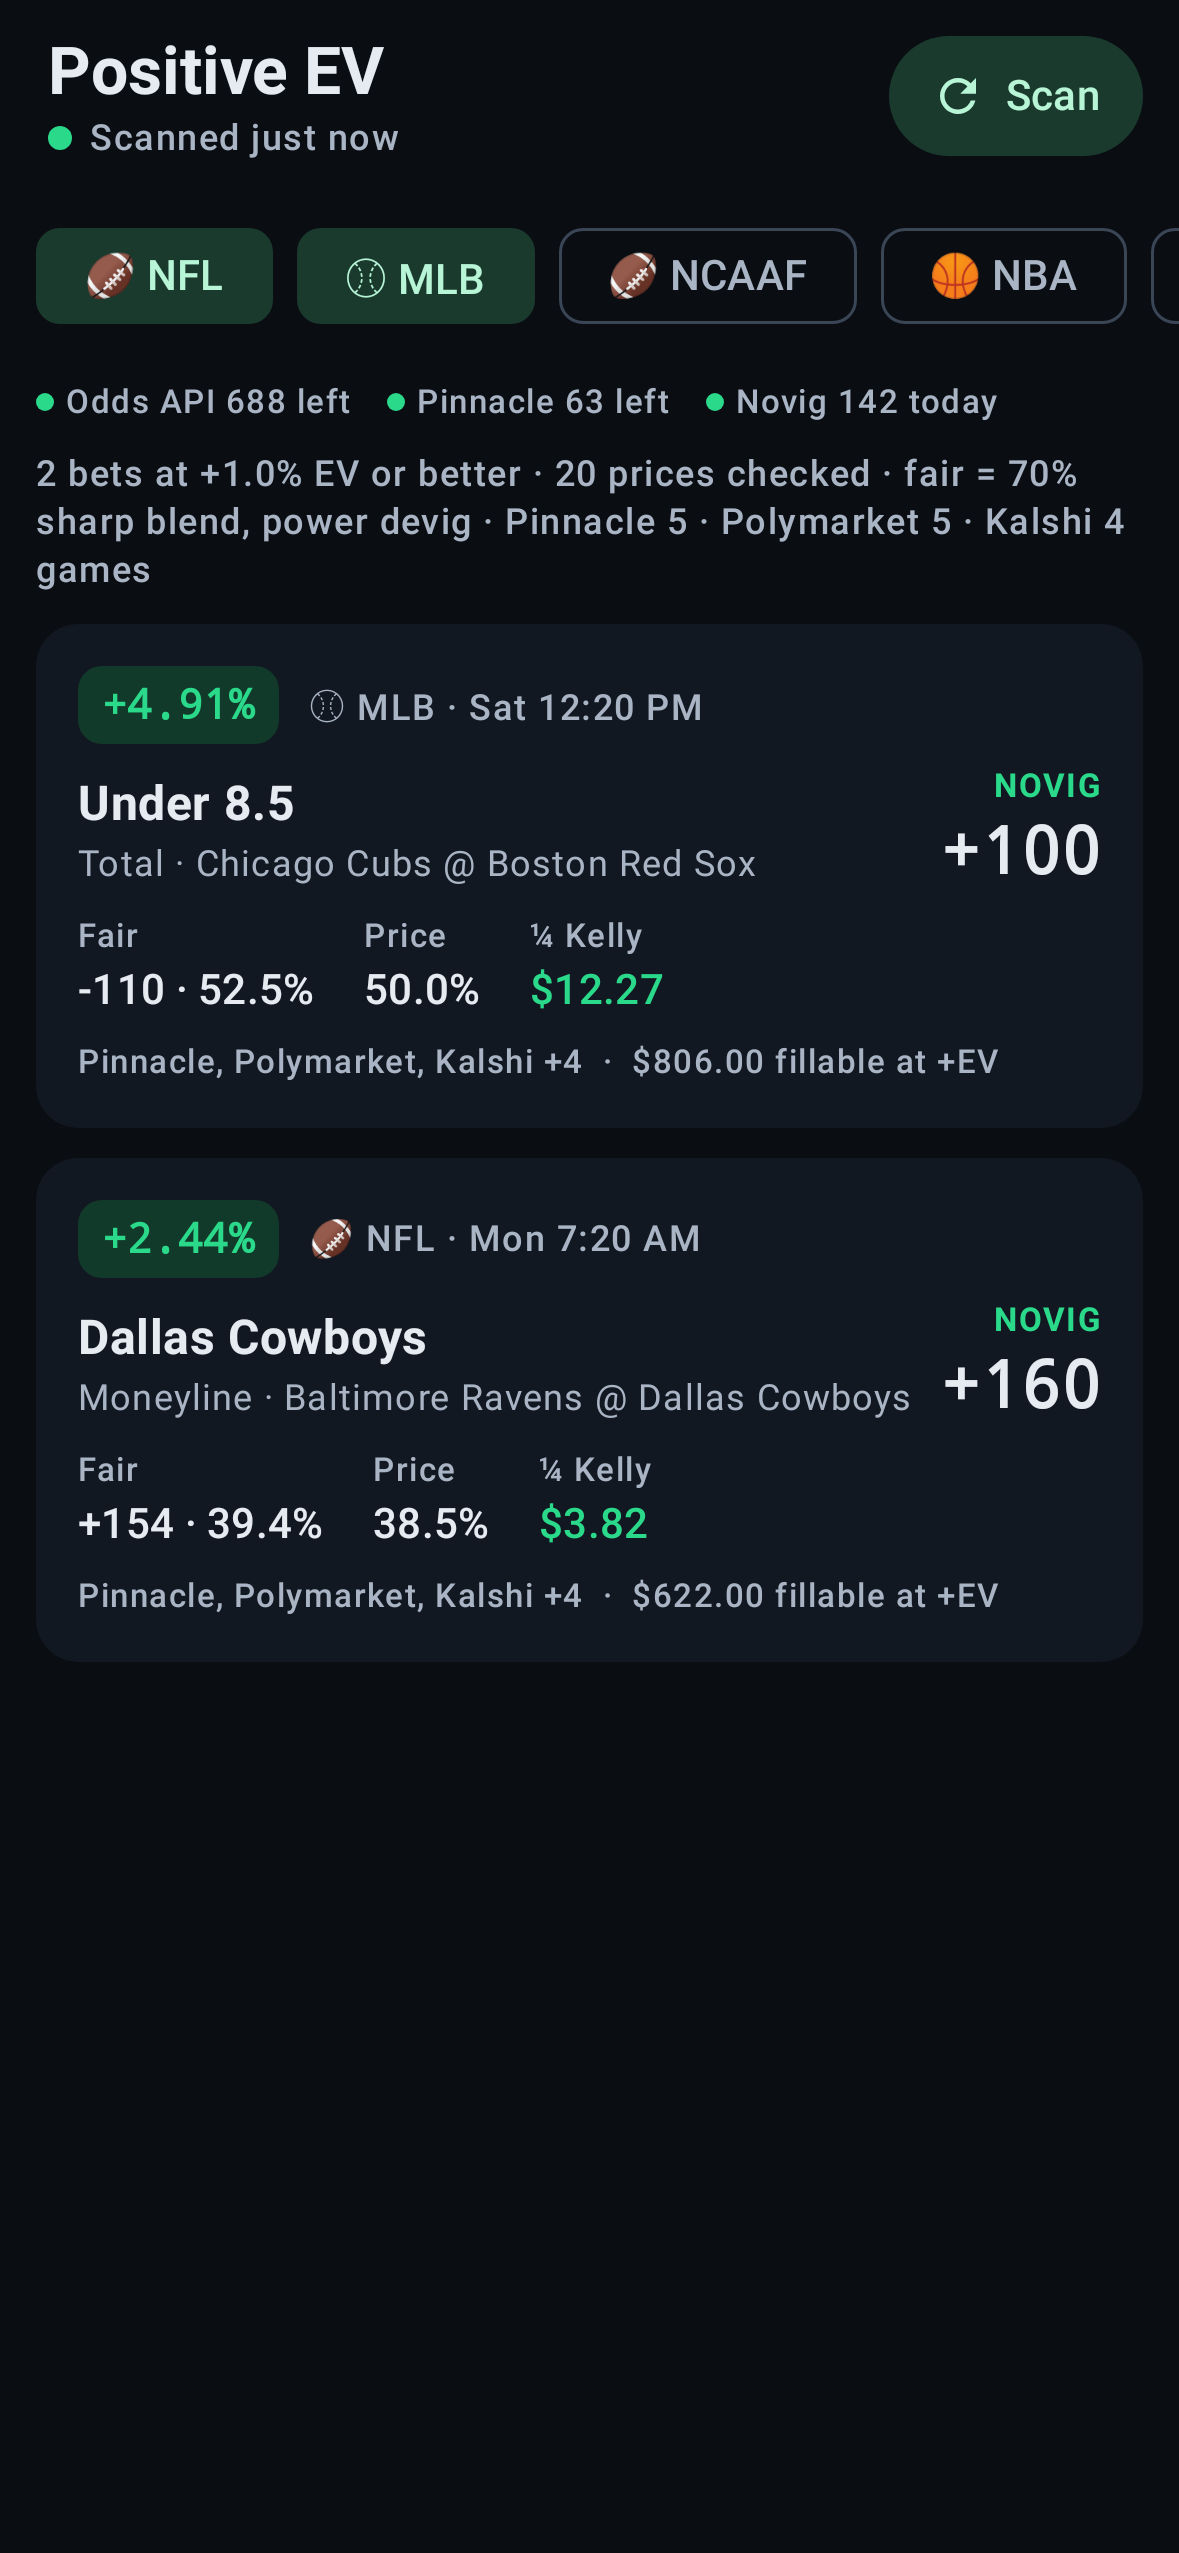
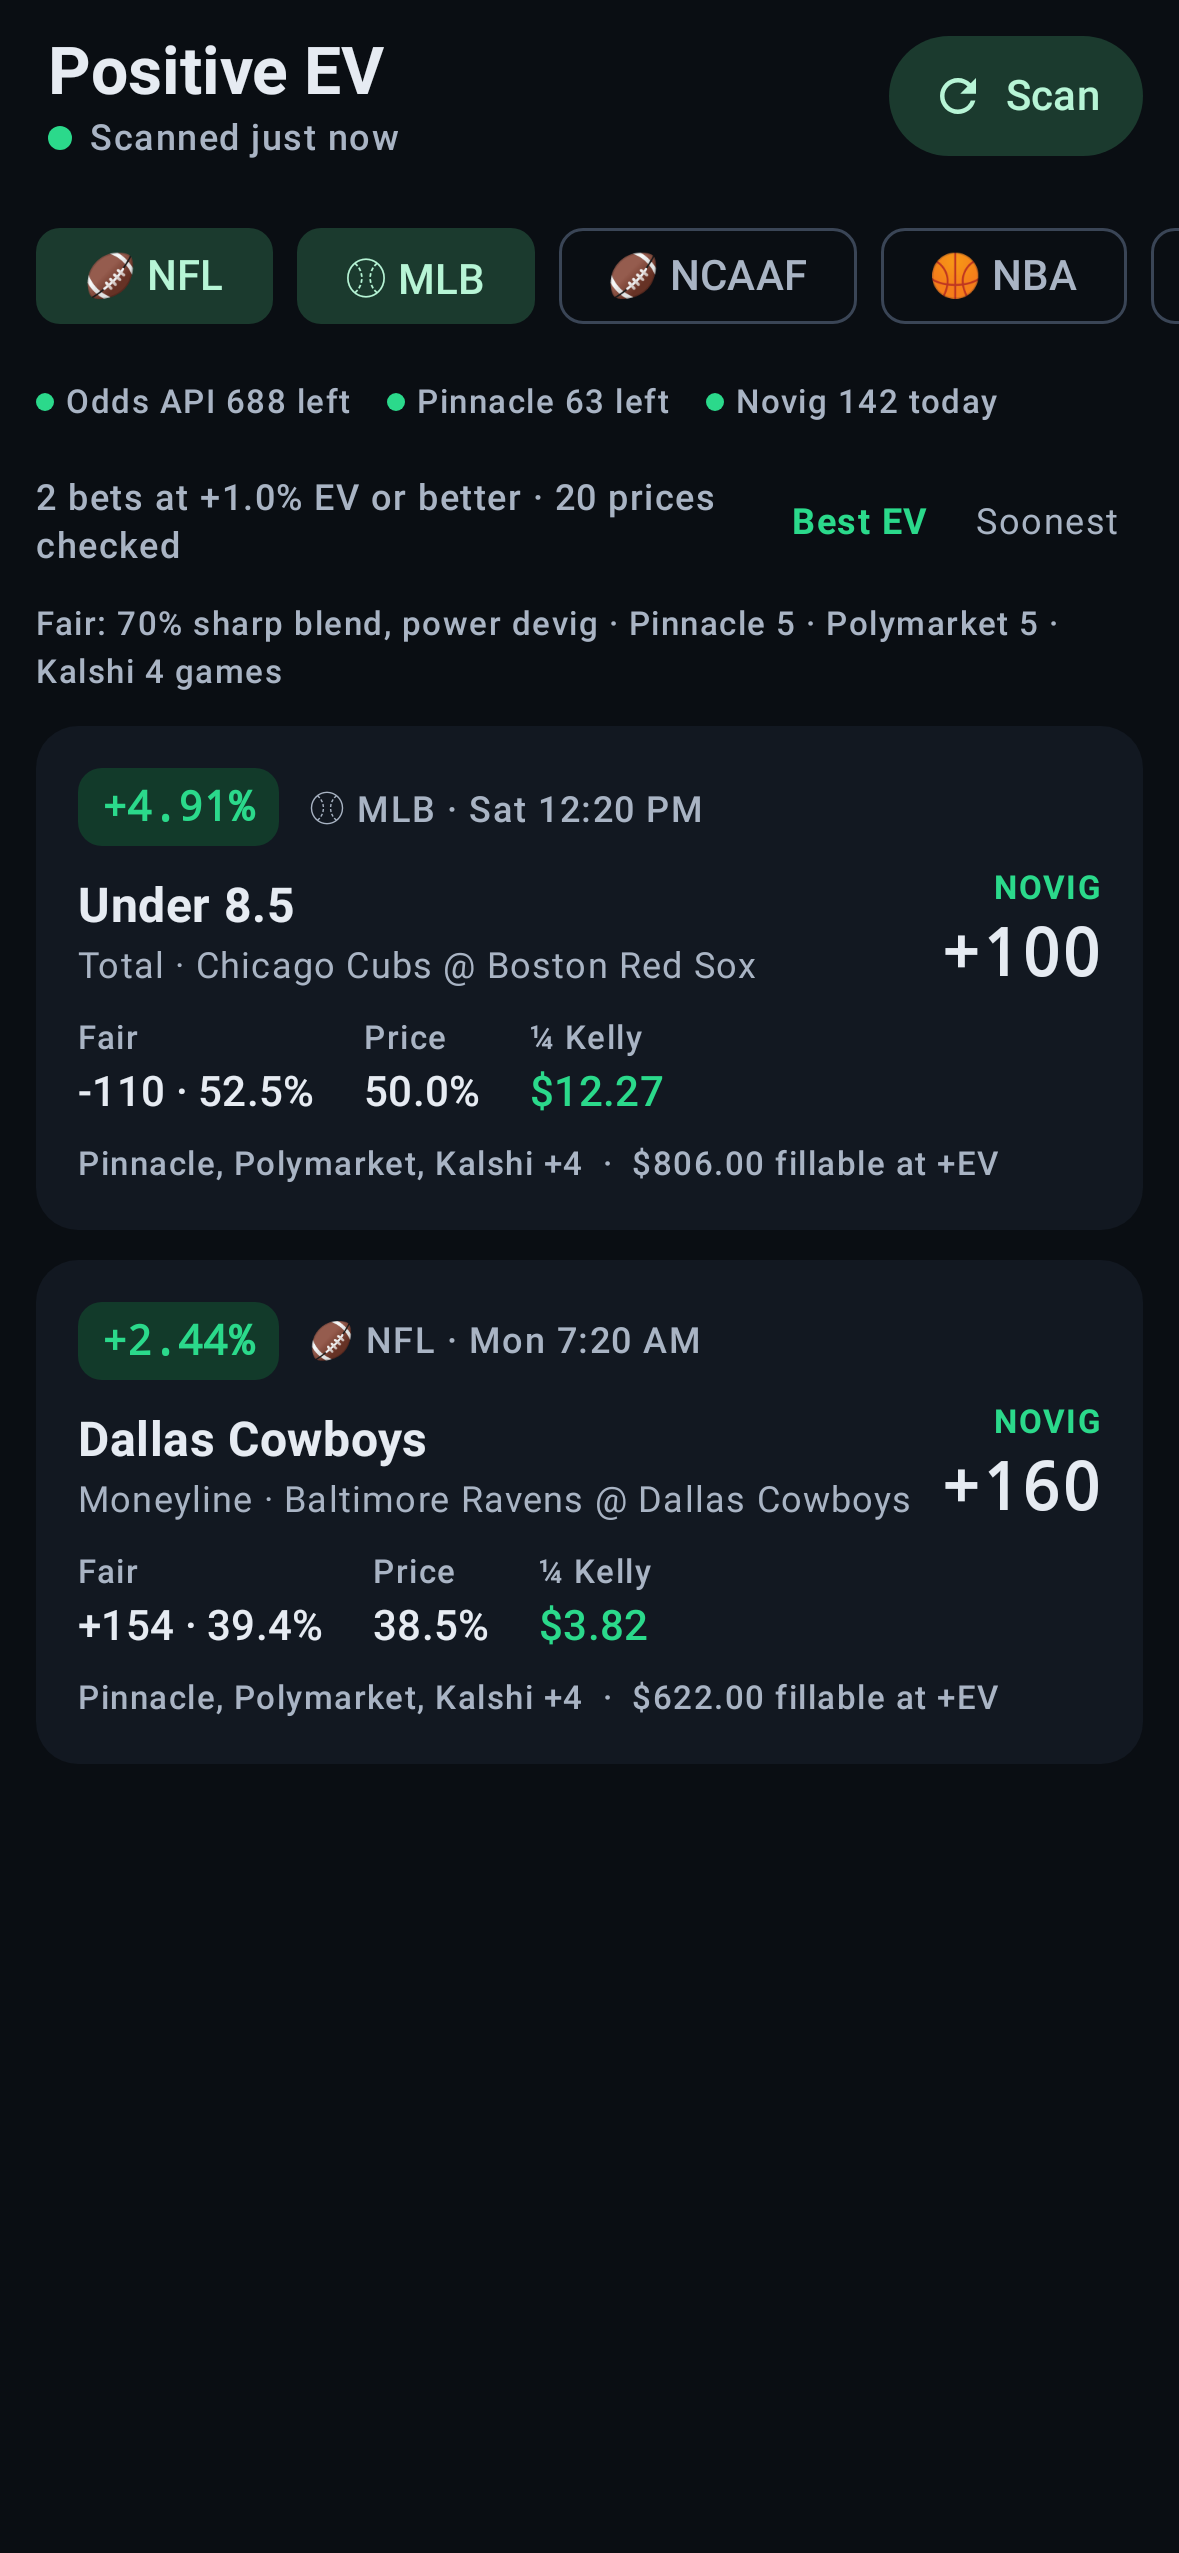
auto-checkpoint: 2026-09-25T14:58:34Z
Automatic hook checkpoint — not a reviewed commit. See CHECKPOINT.md
for where the session actually stands.

diff --git a/app/src/test/kotlin/com/tjshea/vigilant/app/ScreenshotTest.kt b/app/src/test/kotlin/com/tjshea/vigilant/app/ScreenshotTest.kt
@@ -130,4 +130,20 @@ class ScreenshotTest {
             )
         }
     }
+
+    @Test fun anOldScanWarnsBeforeBettingAndOffersToScanAgain() {
+        val old = SampleScan.state().let { it.copy(status = it.status.copy(scannedAtMs = System.currentTimeMillis() - 25 * 60_000L)) }
+        var scans = 0
+        compose.setContent { VigilantTheme { FeedScreen(old, { scans++ }, {}, {}, { _, _ -> }) } }
+        compose.onNodeWithText("Scan again before betting", substring = true).assertIsDisplayed()
+        compose.onNodeWithText("Scan", useUnmergedTree = true).performClick()
+        assert(scans == 1)
+    }
+
+    @Test fun theFeedCanBeSortedBySoonest() {
+        var picked: com.tjshea.vigilant.data.scanner.FeedSort? = null
+        compose.setContent { VigilantTheme { FeedScreen(SampleScan.state(), {}, {}, {}, { _, _ -> }, onSort = { picked = it }) } }
+        compose.onNodeWithText("Soonest").performClick()
+        assert(picked == com.tjshea.vigilant.data.scanner.FeedSort.START)
+    }
 }
